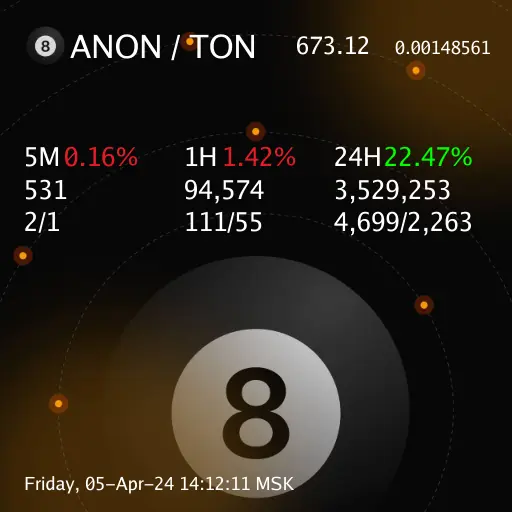
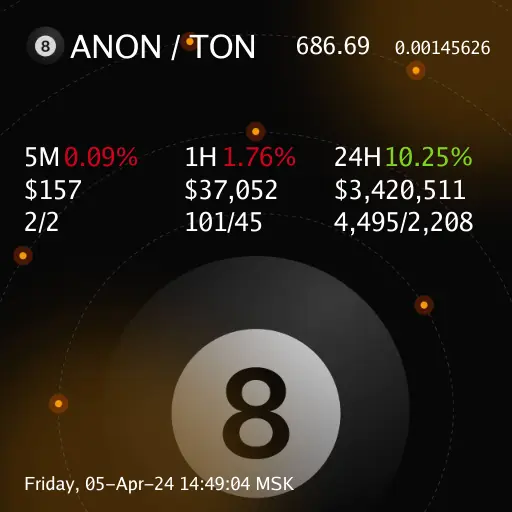
Update color values for price percentages in main.go

diff --git a/main.go b/main.go
@@ -200,7 +200,7 @@ func main() {
 	// data.Data.Attributes.PriceChangePercentage.M5,
 	dc.DrawStringWrapped(
 		fmt.Sprintf(
-			"5M\n%s\n%s/%s",
+			"5M\n$%s\n%s/%s",
 			Comma(m5Volume),
 			Comma(int64(data.Data.Attributes.Transactions.M5.Buys)),
 			Comma(int64(data.Data.Attributes.Transactions.M5.Sells)),
@@ -216,9 +216,9 @@ func main() {
 
 	m5PricePercentageColor := color.RGBA{128, 128, 128, 255}
 	if m5PricePercentage > 0 {
-		m5PricePercentageColor = color.RGBA{0, 255, 0, 255}
+		m5PricePercentageColor = color.RGBA{126, 211, 33, 255}
 	} else if m5PricePercentage < 0 {
-		m5PricePercentageColor = color.RGBA{227, 28, 37, 255}
+		m5PricePercentageColor = color.RGBA{208, 2, 27, 255}
 	}
 
 	dc.SetColor(m5PricePercentageColor)
@@ -234,7 +234,7 @@ func main() {
 	// data.Data.Attributes.PriceChangePercentage.M5,
 	dc.DrawStringWrapped(
 		fmt.Sprintf(
-			"1H\n%s\n%s/%s",
+			"1H\n$%s\n%s/%s",
 			Comma(h1Volume),
 			Comma(int64(data.Data.Attributes.Transactions.H1.Buys)),
 			Comma(int64(data.Data.Attributes.Transactions.H1.Sells)),
@@ -250,9 +250,9 @@ func main() {
 
 	h1PricePercentageColor := color.RGBA{128, 128, 128, 255}
 	if h1PricePercentage > 0 {
-		h1PricePercentageColor = color.RGBA{0, 255, 0, 255}
+		h1PricePercentageColor = color.RGBA{126, 211, 33, 255}
 	} else if h1PricePercentage < 0 {
-		h1PricePercentageColor = color.RGBA{227, 28, 37, 255}
+		h1PricePercentageColor = color.RGBA{208, 2, 27, 255}
 	}
 
 	dc.SetColor(h1PricePercentageColor)
@@ -268,7 +268,7 @@ func main() {
 
 	dc.DrawStringWrapped(
 		fmt.Sprintf(
-			"24H\n%s\n%s/%s",
+			"24H\n$%s\n%s/%s",
 			Comma(h24Volume),
 			Comma(int64(data.Data.Attributes.Transactions.H24.Buys)),
 			Comma(int64(data.Data.Attributes.Transactions.H24.Sells)),
@@ -284,9 +284,9 @@ func main() {
 
 	h24PricePercentageColor := color.RGBA{128, 128, 128, 255}
 	if h24PricePercentage > 0 {
-		h24PricePercentageColor = color.RGBA{0, 255, 0, 255}
+		h24PricePercentageColor = color.RGBA{126, 211, 33, 255}
 	} else if h24PricePercentage < 0 {
-		h24PricePercentageColor = color.RGBA{227, 28, 37, 255}
+		h24PricePercentageColor = color.RGBA{208, 2, 27, 255}
 	}
 
 	dc.SetColor(h24PricePercentageColor)
